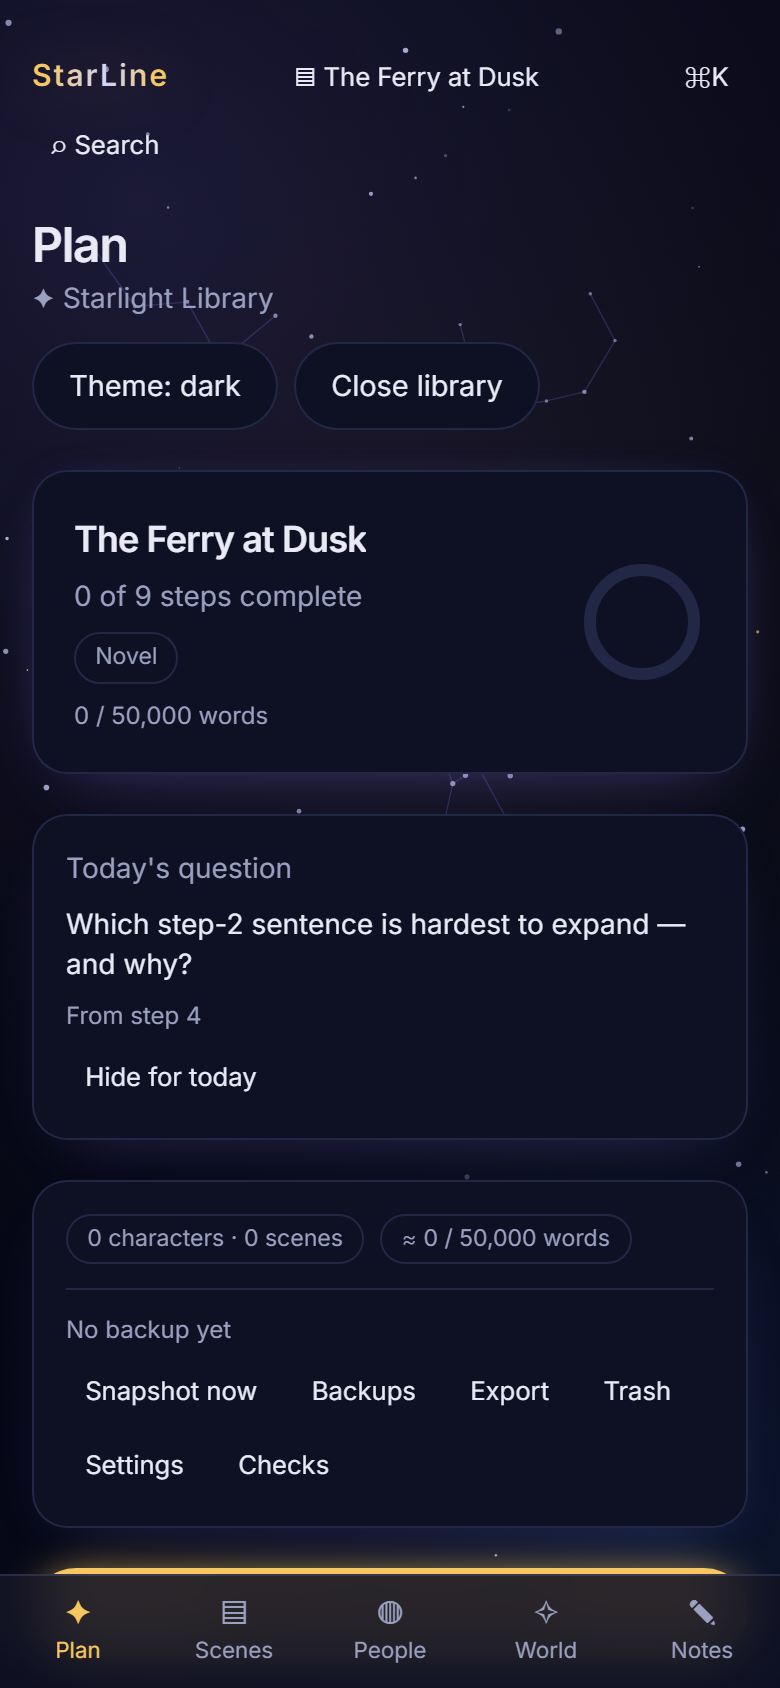
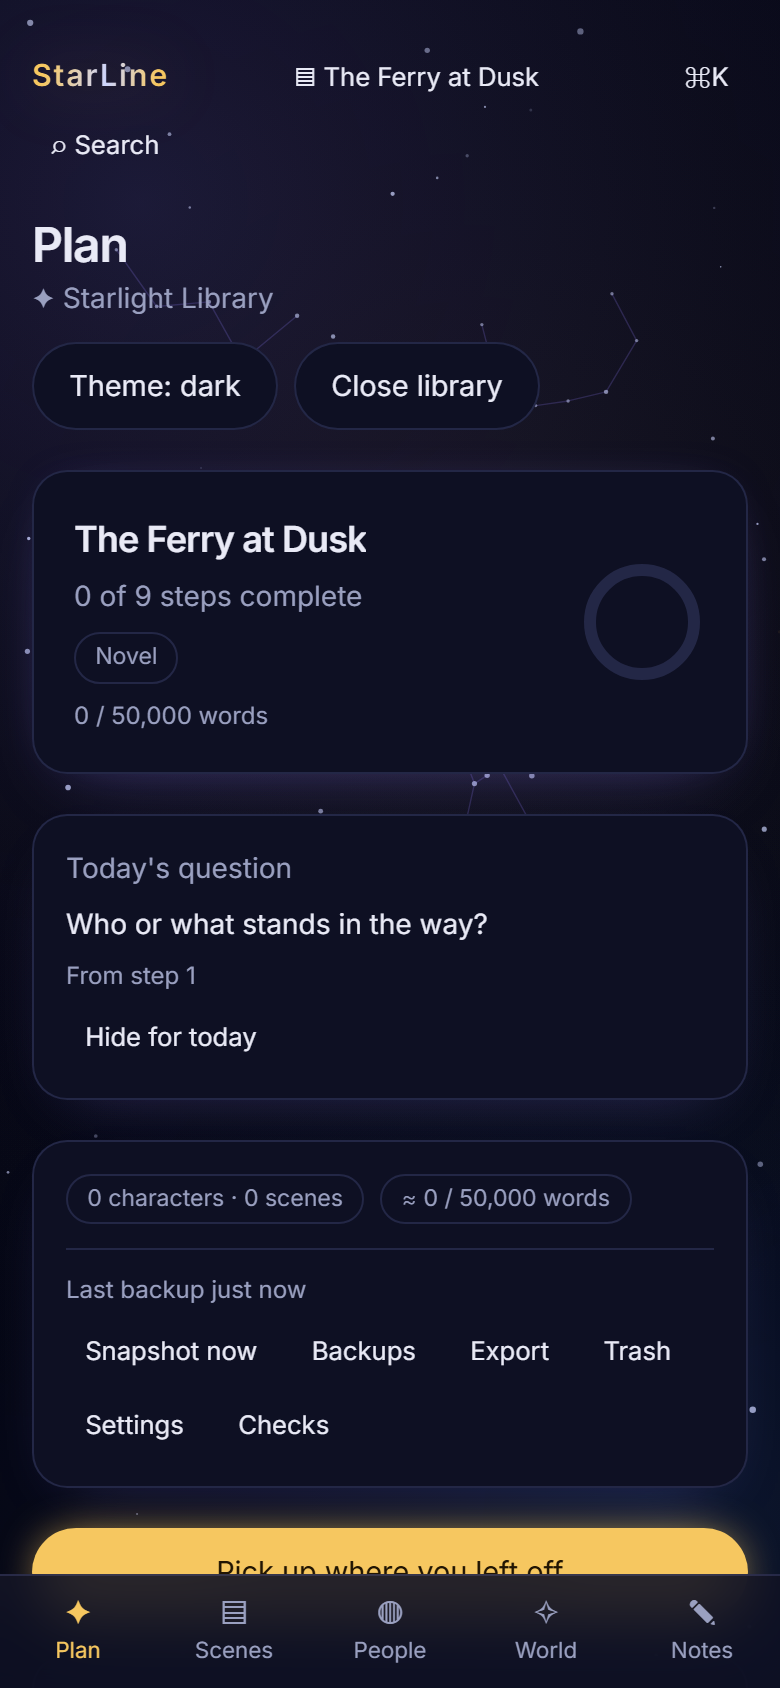
Give the README one hero image, and a script that can rebuild it
Three phone screenshots in a markdown table read as a wall of UI: no clear first image, and
every panel competes with the others. One 3-up composite on the app's own background gives the
README an obvious opening image, and it doubles as the hero for the GitHub profile README.

- `scripts/make-hero.mjs` composes `docs/screenshots/hero.png` from the three shots with
  Playwright — the repo already depends on it, so no image library is added. It renders at 1.5x:
  GitHub shows a README image at ~860 CSS px, so 2x only doubles the file size (523 KB at
  1638x1128).
- `scripts/make-screenshots.mjs` now dismisses the first-run tour card before the start shot:
  the card covers the create form and reads as a nag in a still image.
- Comments record what the regeneration taught: reloading to clear the "pick up where you left
  off" card makes the previous session look unclean, so the crash-recovery banner lands on the
  plan screen (worse than the card); scrolling to reveal the card cuts the Plan header; and the
  corkboard clips its right-hand column in a still, so the list view stays.
- README swaps the 3-cell table for the hero, linking to the live PWA.

Screenshots regenerated from a clean default build (not a STARLINE_CAP=1 build).

diff --git a/README.md b/README.md
@@ -10,9 +10,7 @@ SQLite library file (`*.starline`). No accounts, no telemetry, no network.
 [![Licence: MPL-2.0](https://img.shields.io/badge/licence-MPL--2.0-blue.svg)](LICENSE)
 [![PWA](https://img.shields.io/badge/PWA-live-f6c760.svg)](https://daniilperkin.github.io/starline/)
 
-| Start | Plan | Scenes |
-|---|---|---|
-| ![Start screen](docs/screenshots/start.png) | ![Plan dashboard](docs/screenshots/plan.png) | ![Outliner](docs/screenshots/scenes.png) |
+[![StarLine — start screen, plan dashboard and outliner](docs/screenshots/hero.png)](https://daniilperkin.github.io/starline/)
 
 ## Highlights
 
